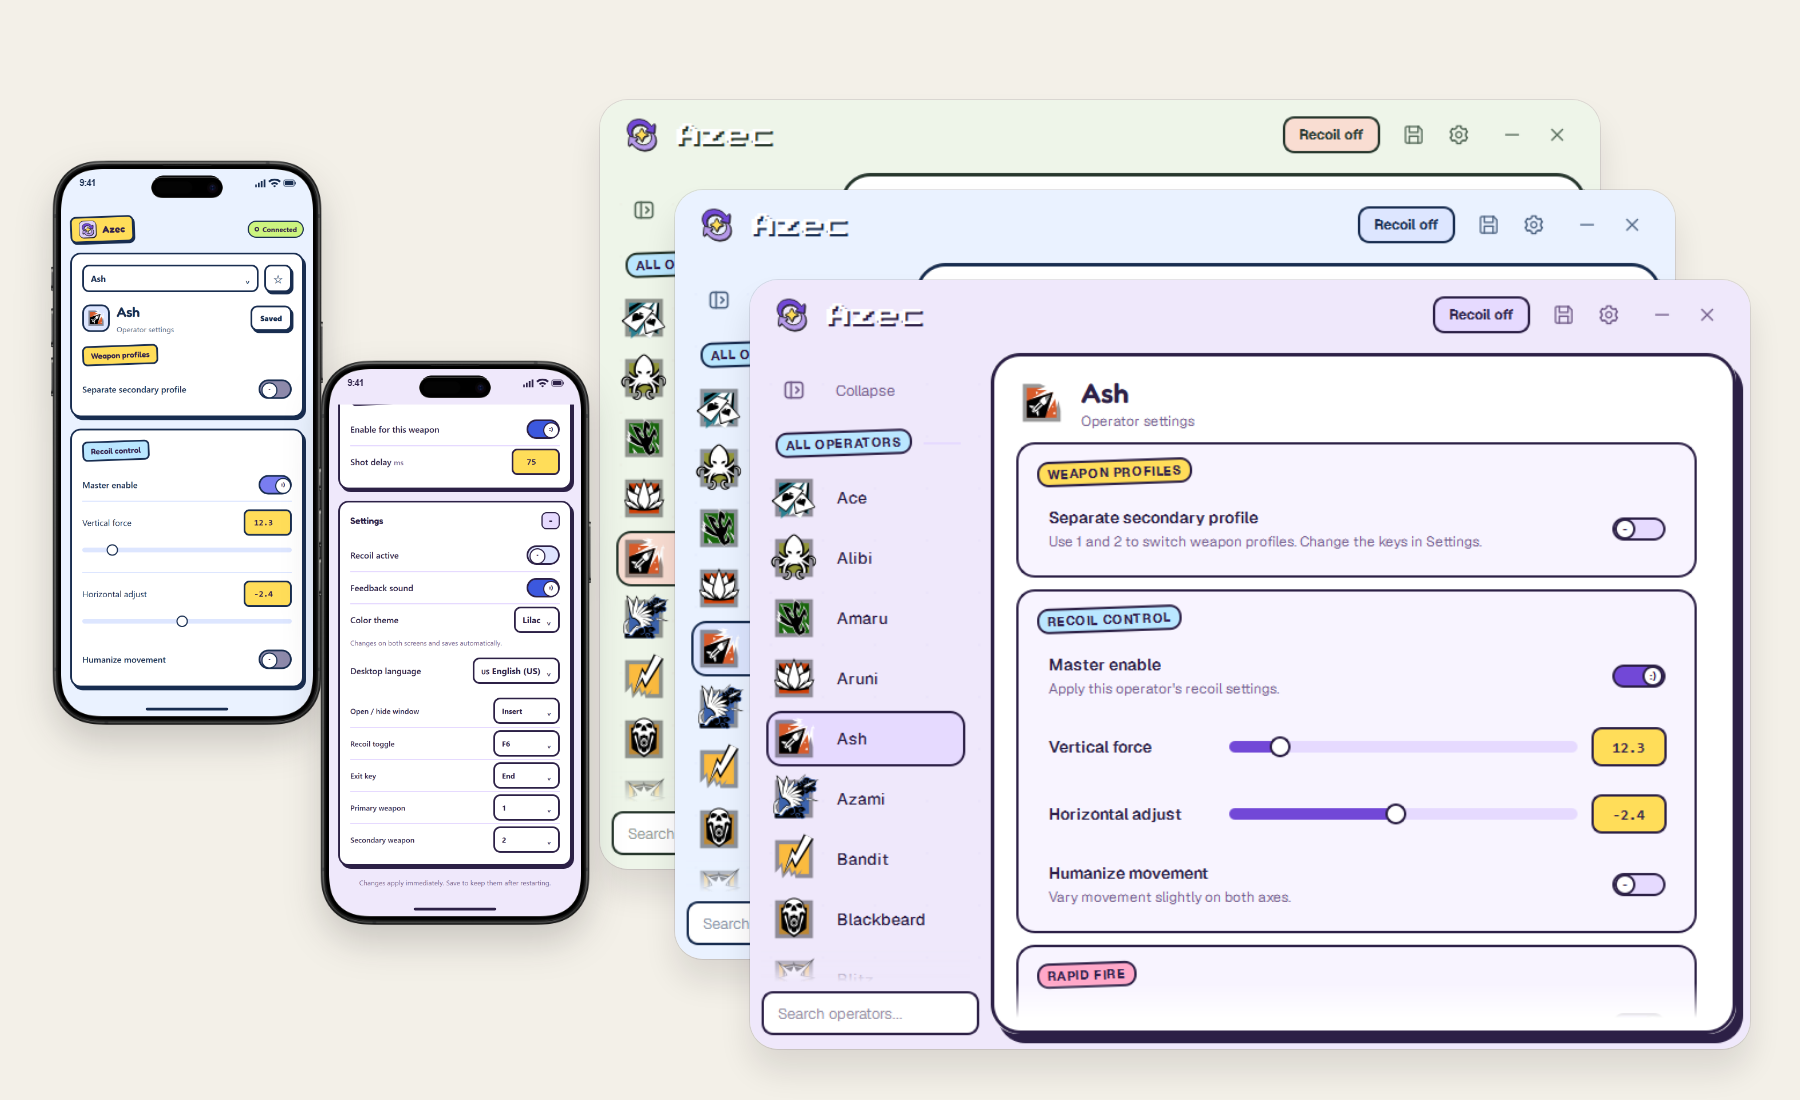
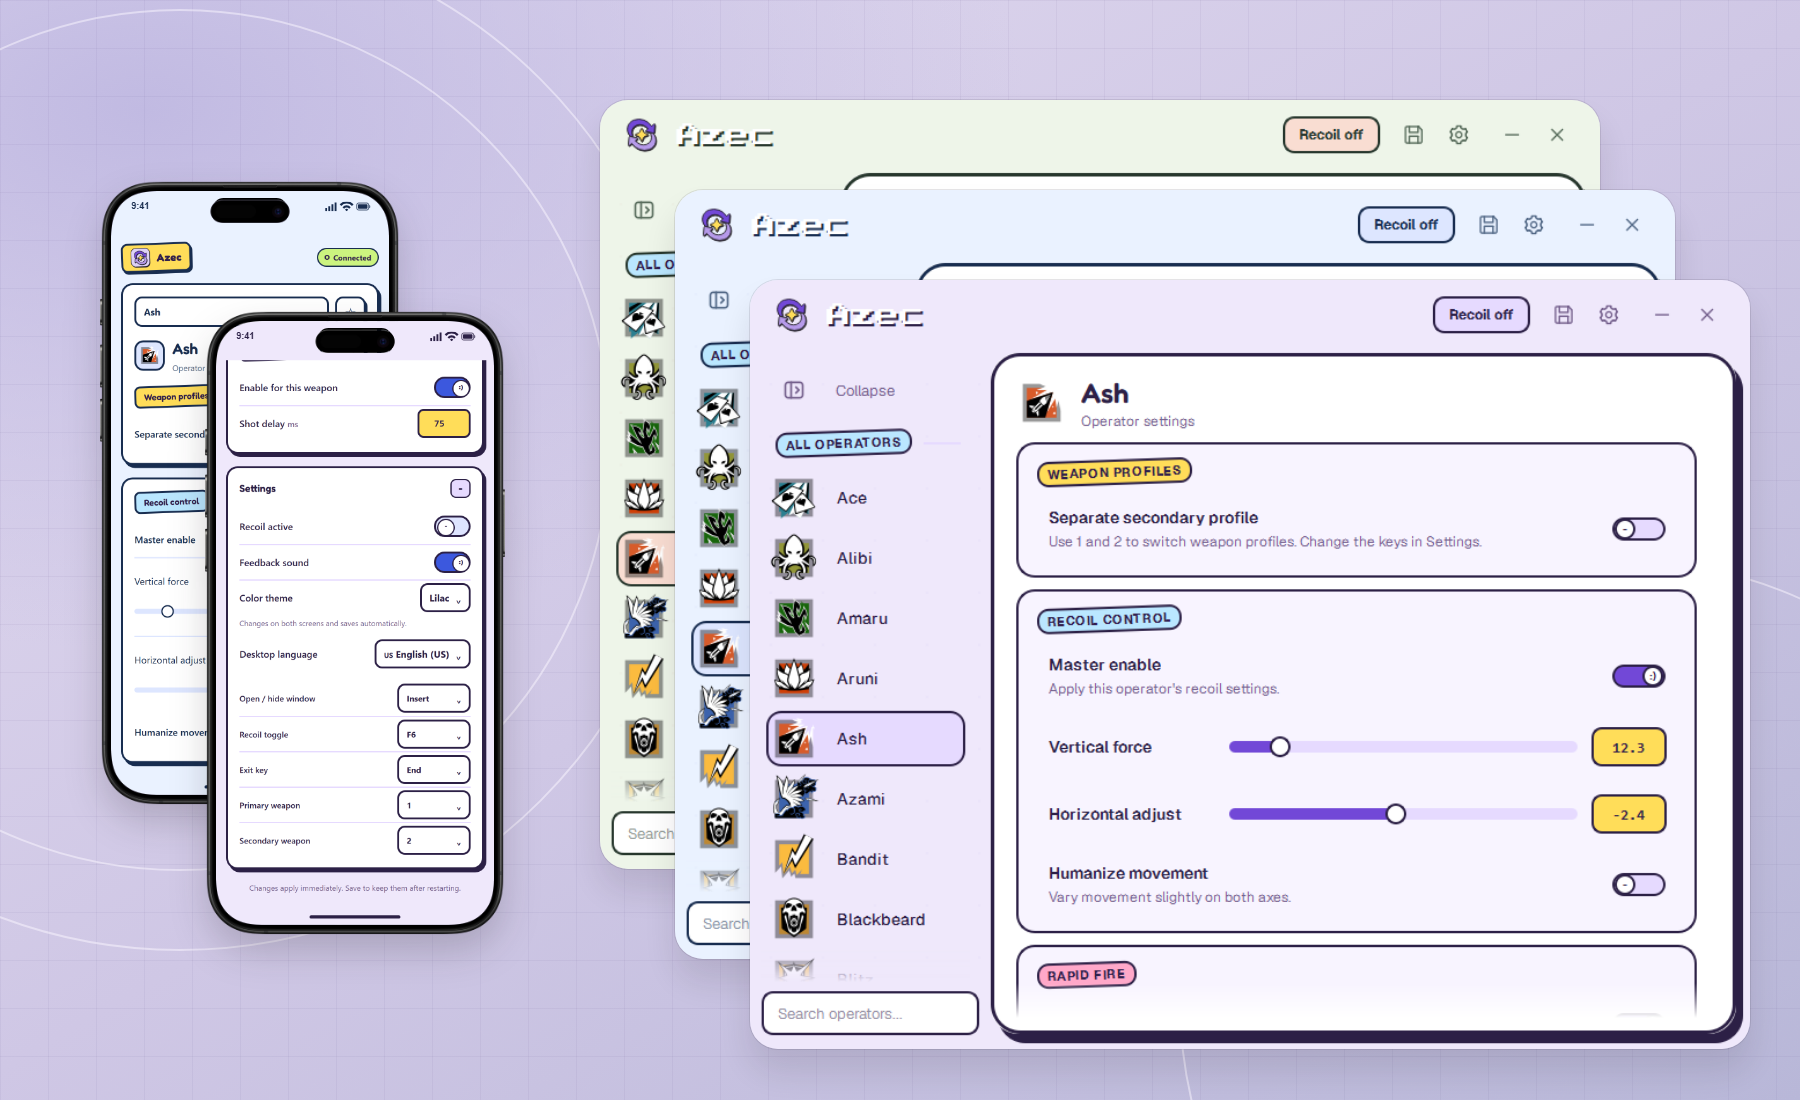
Feature selected C6 and A6 showcases in README

diff --git a/docs/showcase.html b/docs/showcase.html
@@ -1,5 +1,4 @@
-<!doctype html>
-<html lang="en"><head><meta charset="utf-8"><title>Azec 04-A — The original cascade</title><style>
+<!doctype html><html lang="en"><head><meta charset="utf-8"><title>Azec A6 — Lilac grid</title><style>
 *{box-sizing:border-box}
 html,body{margin:0;background:transparent}
 .scene{position:relative;width:1800px;height:1100px;overflow:hidden;isolation:isolate}
@@ -15,4 +14,7 @@ html,body{margin:0;background:transparent}
 .os-island{position:absolute;left:161px;top:11px;width:118px;height:34px;border-radius:22px;background:#000}
 .home-indicator{position:absolute;bottom:10px;left:50%;transform:translateX(-50%);width:144px;height:5px;border-radius:5px;background:var(--ink)}
 .hardware{position:absolute;inset:0;display:block;width:1520px;height:3068px;pointer-events:none}
-</style></head><body><main class="scene" style="background:#ECE9F2"><div class="app" style="left:600px;top:100px;width:1000px;z-index:2"><img src="showcase-assets/desktop/rose.png" width="864" height="664" alt="Azec desktop in rose"></div><div class="app" style="left:675px;top:190px;width:1000px;z-index:3"><img src="showcase-assets/desktop/pistachio.png" width="864" height="664" alt="Azec desktop in pistachio"></div><div class="app" style="left:750px;top:280px;width:1000px;z-index:4"><img src="showcase-assets/desktop/midnight.png" width="864" height="664" alt="Azec desktop in midnight"></div><div class="iphone-placement" style="left:42px;top:150px;width:290px;height:585.342105px;z-index:7"><div class="iphone" style="transform:scale(0.190789473684);--paper:#EEF5E9;--ink:#27372D"><div class="iphone-screen"><div class="screen-coordinates"><span class="time">9:41</span><svg class="status-icons" viewBox="0 0 72 15" aria-hidden="true"><path d="M0 10h3v5H0zm5-3h3v8H5zm5-3h3v11h-3zm5-3h3v14h-3z"/><path d="M23 4a15 15 0 0 1 22 0l-2.5 2.5a11.5 11.5 0 0 0-17 0zm4.5 4.5a8.5 8.5 0 0 1 13 0L38 11a5 5 0 0 0-8 0zm4 4a3 3 0 0 1 5 0L34 15z"/><rect x="50" y="2" width="19" height="11" rx="3" fill="none" stroke="currentColor" stroke-width="1.2"/><rect x="52" y="4" width="15" height="7" rx="1"/><path d="M70 5v5c2 0 2-5 0-5"/></svg><img class="mobile-ui" src="showcase-assets/phones/pistachio.png" width="880" height="1712" alt="Azec mobile pistachio profile controls"><span class="os-island"></span><span class="home-indicator"></span></div></div><img class="hardware" src="showcase-assets/devices/iphone-16-pro-max-black.png" width="1520" height="3068" alt="iPhone 16 Pro Max Black Titanium mockup"></div></div><div class="iphone-placement" style="left:310px;top:350px;width:290px;height:585.342105px;z-index:8"><div class="iphone" style="transform:scale(0.190789473684);--paper:#171522;--ink:#F2EAFB"><div class="iphone-screen"><div class="screen-coordinates"><span class="time">9:41</span><svg class="status-icons" viewBox="0 0 72 15" aria-hidden="true"><path d="M0 10h3v5H0zm5-3h3v8H5zm5-3h3v11h-3zm5-3h3v14h-3z"/><path d="M23 4a15 15 0 0 1 22 0l-2.5 2.5a11.5 11.5 0 0 0-17 0zm4.5 4.5a8.5 8.5 0 0 1 13 0L38 11a5 5 0 0 0-8 0zm4 4a3 3 0 0 1 5 0L34 15z"/><rect x="50" y="2" width="19" height="11" rx="3" fill="none" stroke="currentColor" stroke-width="1.2"/><rect x="52" y="4" width="15" height="7" rx="1"/><path d="M70 5v5c2 0 2-5 0-5"/></svg><img class="mobile-ui" src="showcase-assets/phones/midnight-settings.png" width="880" height="1712" alt="Azec mobile midnight Settings"><span class="os-island"></span><span class="home-indicator"></span></div></div><img class="hardware" src="showcase-assets/devices/iphone-16-pro-max-black.png" width="1520" height="3068" alt="iPhone 16 Pro Max Black Titanium mockup"></div></div></main></body></html>
+
+.background-art{position:absolute;inset:0;width:1800px;height:1100px;z-index:0;pointer-events:none}
+.grain{position:absolute;inset:0;z-index:1;pointer-events:none;opacity:.055;mix-blend-mode:soft-light}
+</style></head><body><main class="scene" style="background:radial-gradient(ellipse 70% 70% at 8% 10%,#C1BAE2,transparent 70%),linear-gradient(150deg,#E2DBF0,#CFC7E5 50%,#B8B7D8)"><svg class="background-art" xmlns="http://www.w3.org/2000/svg" viewBox="0 0 1800 1100" aria-hidden="true"><defs><pattern id="grid" width="48" height="48" patternUnits="userSpaceOnUse"><path d="M48 0H0V48" fill="none" stroke="#5C4E89" stroke-opacity=".13" stroke-width="1"/></pattern></defs><rect width="1800" height="1100" fill="url(#grid)"/><g fill="none" stroke="#FBF7FF" stroke-opacity=".5" stroke-width="2"><circle cx="180" cy="440" r="430"/><circle cx="180" cy="440" r="510"/><circle cx="1620" cy="1000" r="440"/></g></svg><svg class="grain" xmlns="http://www.w3.org/2000/svg" width="1800" height="1100" aria-hidden="true"><filter id="grain"><feTurbulence type="fractalNoise" baseFrequency=".7" numOctaves="3" stitchTiles="stitch"/></filter><rect width="1800" height="1100" filter="url(#grain)" opacity=".8"/></svg><div class="app" style="left:600px;top:100px;width:1000px;z-index:2"><img src="showcase-assets/desktop/rose.png" width="864" height="664" alt="Azec desktop in rose"></div><div class="app" style="left:675px;top:190px;width:1000px;z-index:3"><img src="showcase-assets/desktop/pistachio.png" width="864" height="664" alt="Azec desktop in pistachio"></div><div class="app" style="left:750px;top:280px;width:1000px;z-index:4"><img src="showcase-assets/desktop/midnight.png" width="864" height="664" alt="Azec desktop in midnight"></div><div class="iphone-placement" style="left:90px;top:170px;width:320px;height:645.894737px;z-index:7"><div class="iphone" style="transform:scale(0.210526315789);--paper:#EEF5E9;--ink:#27372D"><div class="iphone-screen"><div class="screen-coordinates"><span class="time">9:41</span><svg class="status-icons" viewBox="0 0 72 15" aria-hidden="true"><path d="M0 10h3v5H0zm5-3h3v8H5zm5-3h3v11h-3zm5-3h3v14h-3z"/><path d="M23 4a15 15 0 0 1 22 0l-2.5 2.5a11.5 11.5 0 0 0-17 0zm4.5 4.5a8.5 8.5 0 0 1 13 0L38 11a5 5 0 0 0-8 0zm4 4a3 3 0 0 1 5 0L34 15z"/><rect x="50" y="2" width="19" height="11" rx="3" fill="none" stroke="currentColor" stroke-width="1.2"/><rect x="52" y="4" width="15" height="7" rx="1"/><path d="M70 5v5c2 0 2-5 0-5"/></svg><img class="mobile-ui" src="showcase-assets/phones/pistachio.png" width="880" height="1712" alt="Azec mobile pistachio profile controls"><span class="os-island"></span><span class="home-indicator"></span></div></div><img class="hardware" src="showcase-assets/devices/iphone-16-pro-max-black.png" width="1520" height="3068" alt="iPhone 16 Pro Max Black Titanium mockup"></div></div><div class="iphone-placement" style="left:195px;top:300px;width:320px;height:645.894737px;z-index:8"><div class="iphone" style="transform:scale(0.210526315789);--paper:#171522;--ink:#F2EAFB"><div class="iphone-screen"><div class="screen-coordinates"><span class="time">9:41</span><svg class="status-icons" viewBox="0 0 72 15" aria-hidden="true"><path d="M0 10h3v5H0zm5-3h3v8H5zm5-3h3v11h-3zm5-3h3v14h-3z"/><path d="M23 4a15 15 0 0 1 22 0l-2.5 2.5a11.5 11.5 0 0 0-17 0zm4.5 4.5a8.5 8.5 0 0 1 13 0L38 11a5 5 0 0 0-8 0zm4 4a3 3 0 0 1 5 0L34 15z"/><rect x="50" y="2" width="19" height="11" rx="3" fill="none" stroke="currentColor" stroke-width="1.2"/><rect x="52" y="4" width="15" height="7" rx="1"/><path d="M70 5v5c2 0 2-5 0-5"/></svg><img class="mobile-ui" src="showcase-assets/phones/midnight-settings.png" width="880" height="1712" alt="Azec mobile midnight Settings"><span class="os-island"></span><span class="home-indicator"></span></div></div><img class="hardware" src="showcase-assets/devices/iphone-16-pro-max-black.png" width="1520" height="3068" alt="iPhone 16 Pro Max Black Titanium mockup"></div></div></main></body></html>

diff --git a/docs/showcase-pastel.html b/docs/showcase-pastel.html
@@ -1,5 +1,4 @@
-<!doctype html>
-<html lang="en"><head><meta charset="utf-8"><title>Azec 04-C — Pastel cascade</title><style>
+<!doctype html><html lang="en"><head><meta charset="utf-8"><title>Azec C6 — Lilac grid</title><style>
 *{box-sizing:border-box}
 html,body{margin:0;background:transparent}
 .scene{position:relative;width:1800px;height:1100px;overflow:hidden;isolation:isolate}
@@ -15,4 +14,7 @@ html,body{margin:0;background:transparent}
 .os-island{position:absolute;left:161px;top:11px;width:118px;height:34px;border-radius:22px;background:#000}
 .home-indicator{position:absolute;bottom:10px;left:50%;transform:translateX(-50%);width:144px;height:5px;border-radius:5px;background:var(--ink)}
 .hardware{position:absolute;inset:0;display:block;width:1520px;height:3068px;pointer-events:none}
-</style></head><body><main class="scene" style="background:#F3F0E8"><div class="app" style="left:600px;top:100px;width:1000px;z-index:2"><img src="showcase-assets/desktop/pistachio.png" width="864" height="664" alt="Azec desktop in pistachio"></div><div class="app" style="left:675px;top:190px;width:1000px;z-index:3"><img src="showcase-assets/desktop/ice-blue.png" width="864" height="664" alt="Azec desktop in ice-blue"></div><div class="app" style="left:750px;top:280px;width:1000px;z-index:4"><img src="showcase-assets/desktop/lilac.png" width="864" height="664" alt="Azec desktop in lilac"></div><div class="iphone-placement" style="left:42px;top:150px;width:290px;height:585.342105px;z-index:7"><div class="iphone" style="transform:scale(0.190789473684);--paper:#EAF2FF;--ink:#182D50"><div class="iphone-screen"><div class="screen-coordinates"><span class="time">9:41</span><svg class="status-icons" viewBox="0 0 72 15" aria-hidden="true"><path d="M0 10h3v5H0zm5-3h3v8H5zm5-3h3v11h-3zm5-3h3v14h-3z"/><path d="M23 4a15 15 0 0 1 22 0l-2.5 2.5a11.5 11.5 0 0 0-17 0zm4.5 4.5a8.5 8.5 0 0 1 13 0L38 11a5 5 0 0 0-8 0zm4 4a3 3 0 0 1 5 0L34 15z"/><rect x="50" y="2" width="19" height="11" rx="3" fill="none" stroke="currentColor" stroke-width="1.2"/><rect x="52" y="4" width="15" height="7" rx="1"/><path d="M70 5v5c2 0 2-5 0-5"/></svg><img class="mobile-ui" src="showcase-assets/phones/ice-blue.png" width="880" height="1712" alt="Azec mobile ice-blue profile controls"><span class="os-island"></span><span class="home-indicator"></span></div></div><img class="hardware" src="showcase-assets/devices/iphone-16-pro-max-black.png" width="1520" height="3068" alt="iPhone 16 Pro Max Black Titanium mockup"></div></div><div class="iphone-placement" style="left:310px;top:350px;width:290px;height:585.342105px;z-index:8"><div class="iphone" style="transform:scale(0.190789473684);--paper:#EFE8FB;--ink:#2C2046"><div class="iphone-screen"><div class="screen-coordinates"><span class="time">9:41</span><svg class="status-icons" viewBox="0 0 72 15" aria-hidden="true"><path d="M0 10h3v5H0zm5-3h3v8H5zm5-3h3v11h-3zm5-3h3v14h-3z"/><path d="M23 4a15 15 0 0 1 22 0l-2.5 2.5a11.5 11.5 0 0 0-17 0zm4.5 4.5a8.5 8.5 0 0 1 13 0L38 11a5 5 0 0 0-8 0zm4 4a3 3 0 0 1 5 0L34 15z"/><rect x="50" y="2" width="19" height="11" rx="3" fill="none" stroke="currentColor" stroke-width="1.2"/><rect x="52" y="4" width="15" height="7" rx="1"/><path d="M70 5v5c2 0 2-5 0-5"/></svg><img class="mobile-ui" src="showcase-assets/phones/lilac-settings.png" width="880" height="1712" alt="Azec mobile lilac Settings"><span class="os-island"></span><span class="home-indicator"></span></div></div><img class="hardware" src="showcase-assets/devices/iphone-16-pro-max-black.png" width="1520" height="3068" alt="iPhone 16 Pro Max Black Titanium mockup"></div></div></main></body></html>
+
+.background-art{position:absolute;inset:0;width:1800px;height:1100px;z-index:0;pointer-events:none}
+.grain{position:absolute;inset:0;z-index:1;pointer-events:none;opacity:.055;mix-blend-mode:soft-light}
+</style></head><body><main class="scene" style="background:radial-gradient(ellipse 70% 70% at 8% 10%,#C1BAE2,transparent 70%),linear-gradient(150deg,#E2DBF0,#CFC7E5 50%,#B8B7D8)"><svg class="background-art" xmlns="http://www.w3.org/2000/svg" viewBox="0 0 1800 1100" aria-hidden="true"><defs><pattern id="grid" width="48" height="48" patternUnits="userSpaceOnUse"><path d="M48 0H0V48" fill="none" stroke="#5C4E89" stroke-opacity=".13" stroke-width="1"/></pattern></defs><rect width="1800" height="1100" fill="url(#grid)"/><g fill="none" stroke="#FBF7FF" stroke-opacity=".5" stroke-width="2"><circle cx="180" cy="440" r="430"/><circle cx="180" cy="440" r="510"/><circle cx="1620" cy="1000" r="440"/></g></svg><svg class="grain" xmlns="http://www.w3.org/2000/svg" width="1800" height="1100" aria-hidden="true"><filter id="grain"><feTurbulence type="fractalNoise" baseFrequency=".7" numOctaves="3" stitchTiles="stitch"/></filter><rect width="1800" height="1100" filter="url(#grain)" opacity=".8"/></svg><div class="app" style="left:600px;top:100px;width:1000px;z-index:2"><img src="showcase-assets/desktop/pistachio.png" width="864" height="664" alt="Azec desktop in pistachio"></div><div class="app" style="left:675px;top:190px;width:1000px;z-index:3"><img src="showcase-assets/desktop/ice-blue.png" width="864" height="664" alt="Azec desktop in ice-blue"></div><div class="app" style="left:750px;top:280px;width:1000px;z-index:4"><img src="showcase-assets/desktop/lilac.png" width="864" height="664" alt="Azec desktop in lilac"></div><div class="iphone-placement" style="left:90px;top:170px;width:320px;height:645.894737px;z-index:7"><div class="iphone" style="transform:scale(0.210526315789);--paper:#EAF2FF;--ink:#182D50"><div class="iphone-screen"><div class="screen-coordinates"><span class="time">9:41</span><svg class="status-icons" viewBox="0 0 72 15" aria-hidden="true"><path d="M0 10h3v5H0zm5-3h3v8H5zm5-3h3v11h-3zm5-3h3v14h-3z"/><path d="M23 4a15 15 0 0 1 22 0l-2.5 2.5a11.5 11.5 0 0 0-17 0zm4.5 4.5a8.5 8.5 0 0 1 13 0L38 11a5 5 0 0 0-8 0zm4 4a3 3 0 0 1 5 0L34 15z"/><rect x="50" y="2" width="19" height="11" rx="3" fill="none" stroke="currentColor" stroke-width="1.2"/><rect x="52" y="4" width="15" height="7" rx="1"/><path d="M70 5v5c2 0 2-5 0-5"/></svg><img class="mobile-ui" src="showcase-assets/phones/ice-blue.png" width="880" height="1712" alt="Azec mobile ice-blue profile controls"><span class="os-island"></span><span class="home-indicator"></span></div></div><img class="hardware" src="showcase-assets/devices/iphone-16-pro-max-black.png" width="1520" height="3068" alt="iPhone 16 Pro Max Black Titanium mockup"></div></div><div class="iphone-placement" style="left:195px;top:300px;width:320px;height:645.894737px;z-index:8"><div class="iphone" style="transform:scale(0.210526315789);--paper:#EFE8FB;--ink:#2C2046"><div class="iphone-screen"><div class="screen-coordinates"><span class="time">9:41</span><svg class="status-icons" viewBox="0 0 72 15" aria-hidden="true"><path d="M0 10h3v5H0zm5-3h3v8H5zm5-3h3v11h-3zm5-3h3v14h-3z"/><path d="M23 4a15 15 0 0 1 22 0l-2.5 2.5a11.5 11.5 0 0 0-17 0zm4.5 4.5a8.5 8.5 0 0 1 13 0L38 11a5 5 0 0 0-8 0zm4 4a3 3 0 0 1 5 0L34 15z"/><rect x="50" y="2" width="19" height="11" rx="3" fill="none" stroke="currentColor" stroke-width="1.2"/><rect x="52" y="4" width="15" height="7" rx="1"/><path d="M70 5v5c2 0 2-5 0-5"/></svg><img class="mobile-ui" src="showcase-assets/phones/lilac-settings.png" width="880" height="1712" alt="Azec mobile lilac Settings"><span class="os-island"></span><span class="home-indicator"></span></div></div><img class="hardware" src="showcase-assets/devices/iphone-16-pro-max-black.png" width="1520" height="3068" alt="iPhone 16 Pro Max Black Titanium mockup"></div></div></main></body></html>

diff --git a/README.md b/README.md
@@ -2,7 +2,9 @@
 
 A Windows desktop app with 72 operator profiles, independent primary and secondary weapon settings, and phone controls over your local network.
 
-![Matching Azec themes on desktop and phone](docs/showcase.png)
+![Azec C6: pastel desktop and phone themes on a lilac grid background](docs/showcase-pastel.png)
+
+![Azec A6: original and dark desktop and phone themes on a lilac grid background](docs/showcase.png)
 
 ## Get started
 
@@ -62,7 +64,7 @@ This runs core, HTTP, recovery, and restart checks without the 61-second expiry 
 - [Testing and verification](docs/testing.md) — fast defaults, targeted checks, extended coverage, and safe fixtures.
 - [Application reference](docs/reference.md) — detailed UI, phone pairing, persistence, and input behavior.
 - [Agent instructions](AGENTS.md) — architecture, compatibility contracts, and change-based testing rules. [CLAUDE.md](CLAUDE.md) shares these instructions.
-- Screenshot presentations: [04-A](docs/showcase.html), used for the README image, and [04-C](docs/showcase-pastel.html), the pastel alternative. Both show two iPhone screens to the left of the desktop windows.
+- README screenshot presentations: [C6, pastel themes](docs/showcase-pastel.html), and [A6, original and dark themes](docs/showcase.html). Both use the lilac grid background, with cascading iPhone screens to the left of the desktop windows.
 
 Personal settings (`r6_config.bin`, `azec_weapons.json`, `azec_ui.json`), logs, pairing credentials, and generated binaries stay out of Git. Runnable releases contain the launcher, `runtime/`, and licenses; they exclude `Azec-checks.exe` and personal data.
 

diff --git a/docs/showcase-assets/devices/SOURCE.md b/docs/showcase-assets/devices/SOURCE.md
@@ -10,4 +10,4 @@
 
 The original screen rectangle is x=100, y=100, width=1320, height=2868. The HTML presentation uses a 440 × 956 coordinate system scaled uniformly by three, with a 62 px status area, an 856 px app capture, and a 38 px home area. App captures are 880 × 1712 browser screenshots of an isolated dry-run instance, displayed at 440 × 856 without stretching or cropping. They are browser captures, not physical-iPhone captures.
 
-`docs/showcase.html` (04-A) and `docs/showcase-pastel.html` (04-C) are the editable compositions. Both use two iPhones on the left and the desktop cascade on the right. Open them in a browser with an 1800 × 1100 viewport to export the matching PNG. All assets load locally; no network access is needed.
+`docs/showcase.html` (A6, original and dark themes) and `docs/showcase-pastel.html` (C6, pastel themes) are the editable compositions shown in the README. Both use a lilac grid background, two overlapping iPhones in a cascade on the left, and the desktop cascade on the right. The phone frames scale uniformly to 320 px wide. Open the compositions in a browser with an 1800 × 1100 viewport to export the matching PNG. All assets load locally; no network access is needed.
